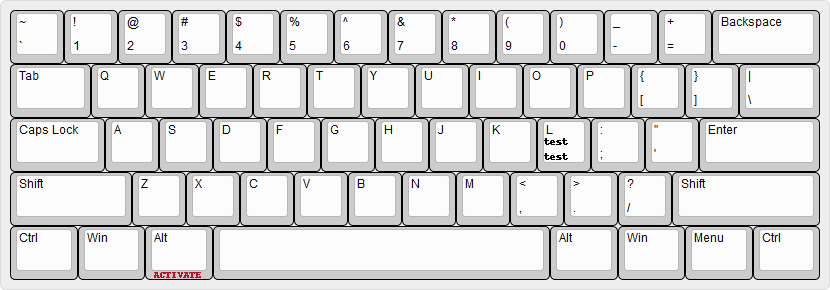
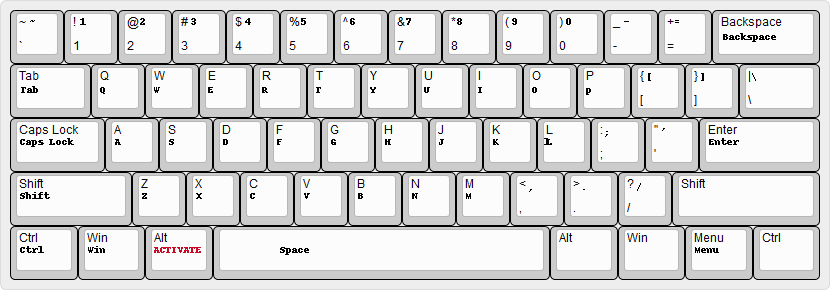
actual 60 % keyboard layout files now

diff --git a/src/config.py b/src/config.py
@@ -32,4 +32,4 @@ class Bindings:
         for layer in self.layers:
             layer.draw(kbformat, self.name)
 
-Bindings("test", "test.json").draw_all("60")
+Bindings("test", "template.json").draw_all("60")
